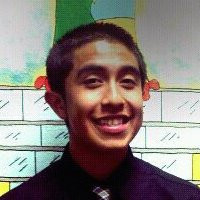
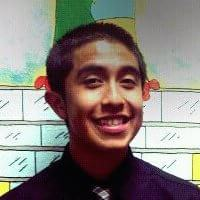
Compressed images further

diff --git a/README.md b/README.md
@@ -159,3 +159,10 @@ Process for creating a new database:
 Required to be done separately 
 
 =====
+
+Process for restarting server after server changes
+
+ps ax | grep node
+find all node proccess running
+sudo kill <pid>
+forever start server/app.js
